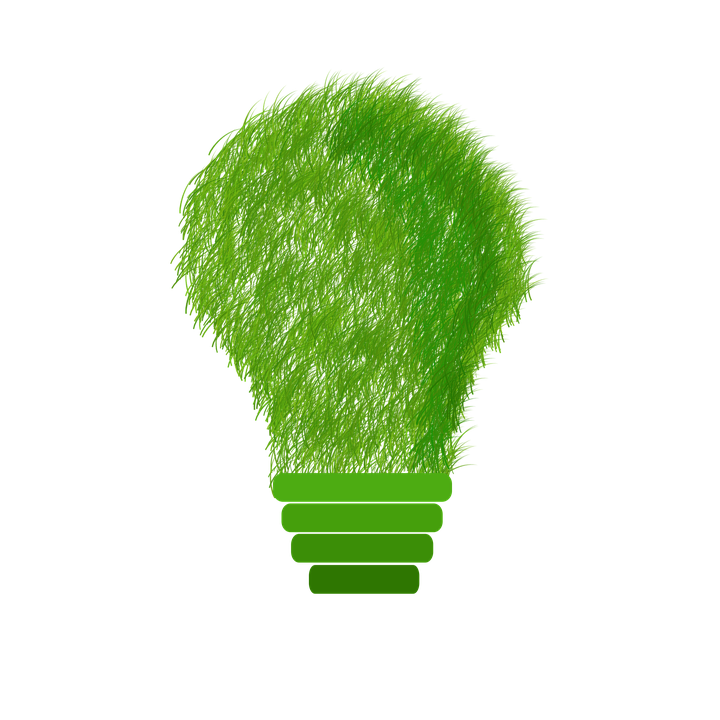
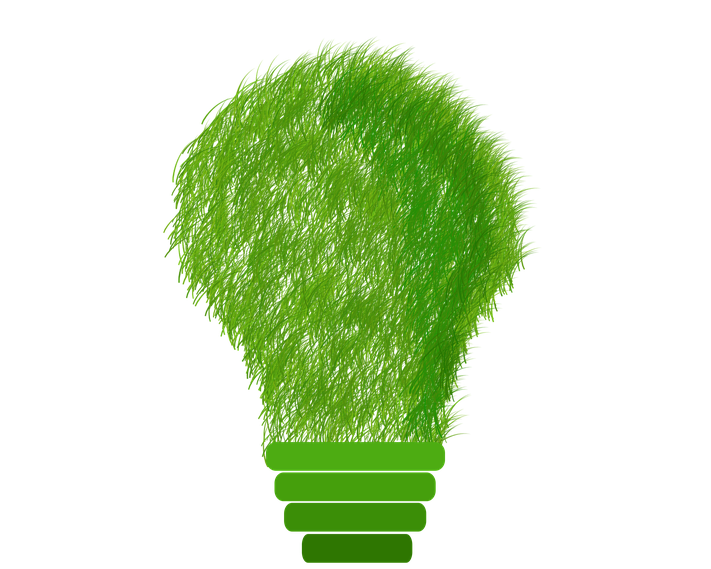
Fading Background

Changed region(s): [[0.2166, 0.0598, 0.7736, 1.0]]

diff --git a/index.html b/index.html
@@ -31,7 +31,7 @@
     Einfach Bilder hochladen, Beschreibung und Preis hinzufügen, und fertig.
 </p>
 
-<img src="bilder/suchen.webp" class="center" alt="suchen">
+<img src="bilder/search.png" class="center2" alt="suchen">
 <h1 class="Überschrift">Zielgerichtet Suchen</h1>
 <p class="Textfeld">
     Durch die von uns entwickelte und optimierte Suchfunktion finden Sie die von Ihnen gesuchten Gegenstände im

diff --git a/style.css b/style.css
@@ -46,6 +46,16 @@ header{
 
 }
 
+.center2 {
+    display: block;
+    margin-left: auto;
+    margin-right: auto;
+    margin-top: 100px;
+    width: 70%;
+    border-radius: 100px;
+
+}
+
 
 .footer{
     left: 0;
